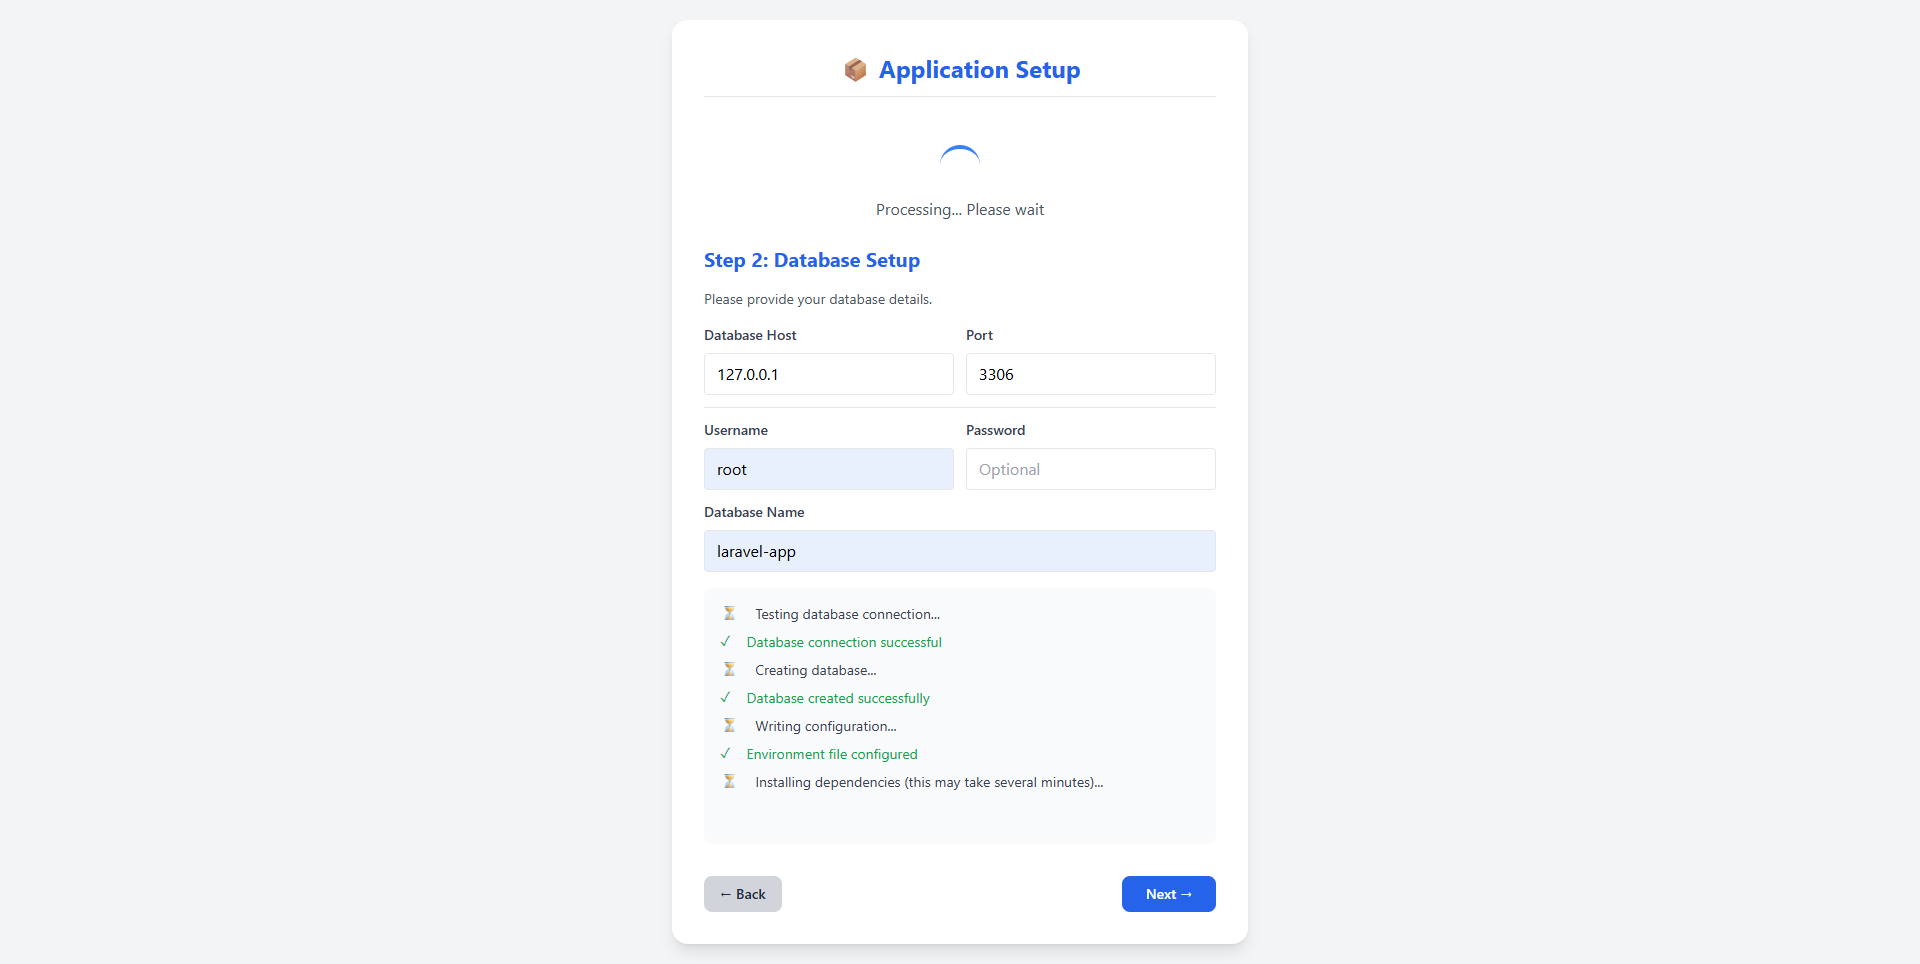
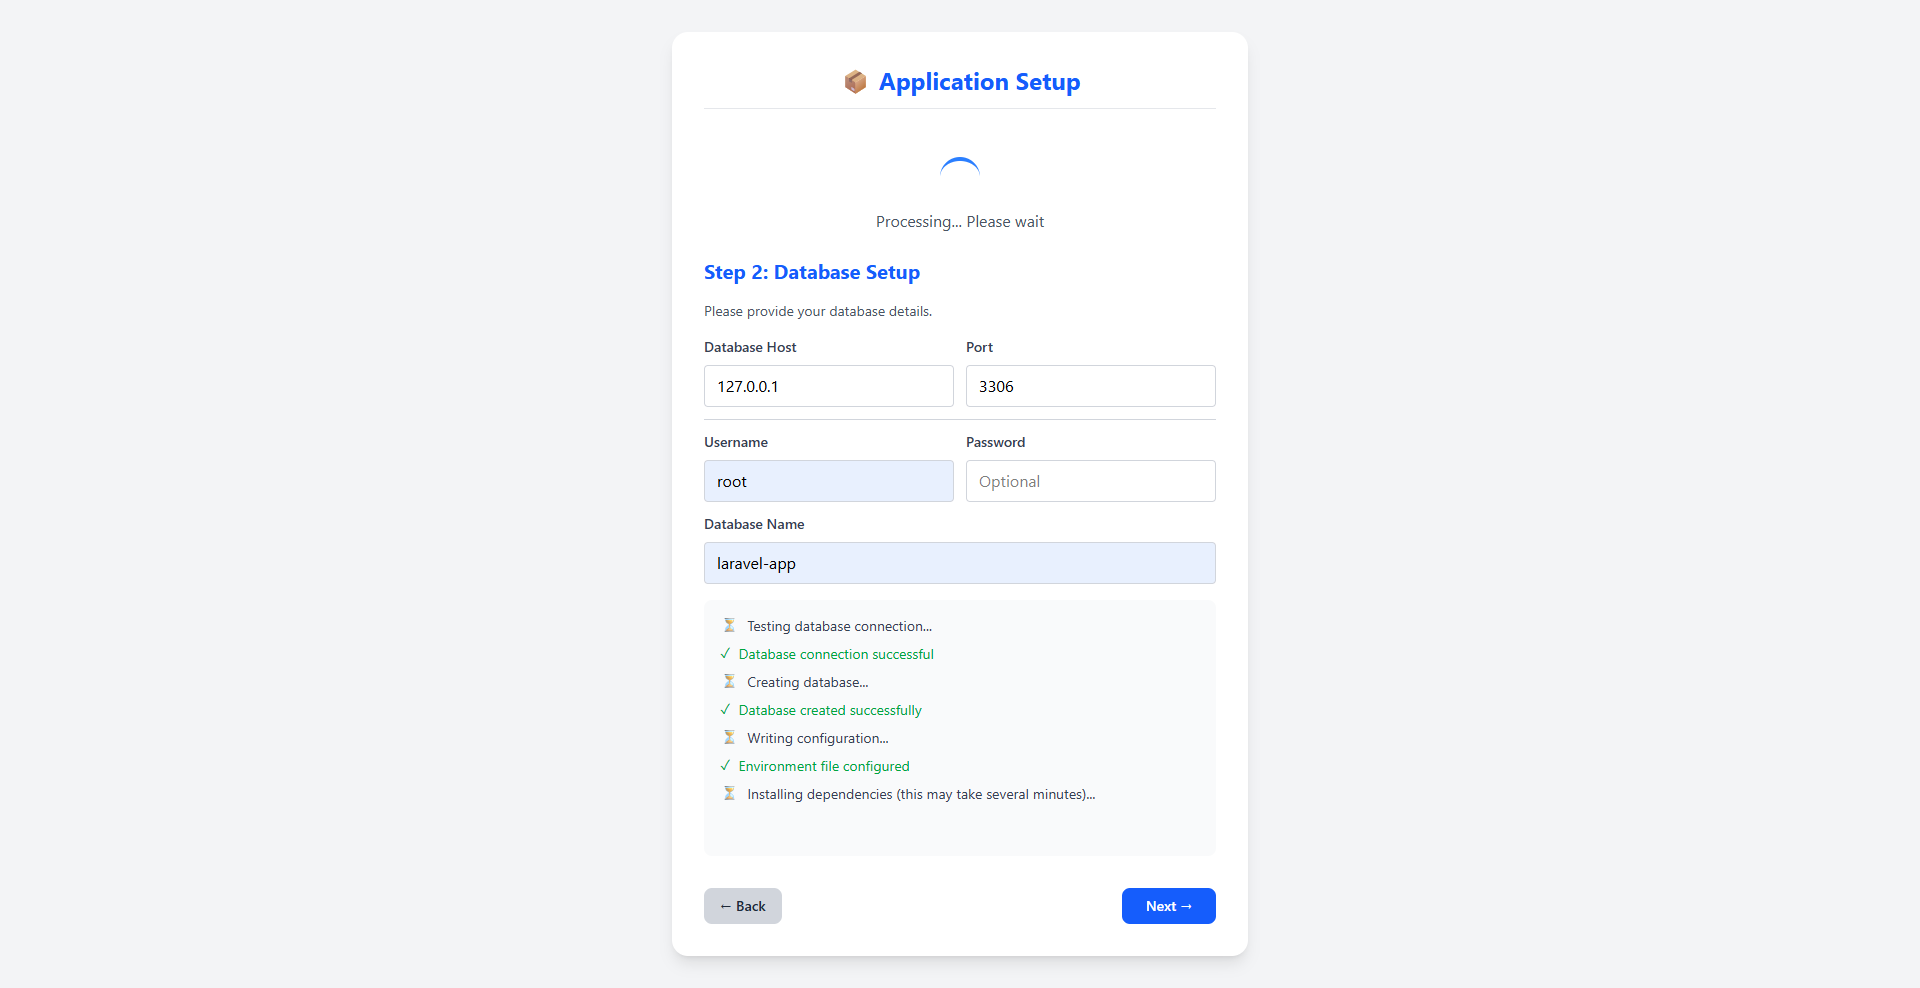
improve design

diff --git a/public/install-app.php b/public/install-app.php
@@ -420,7 +420,7 @@ if ($_SERVER['REQUEST_METHOD'] === 'GET' && isset($_GET['step'])) {
             'JSON' => extension_loaded('json'),
         ];
 
-        echo '<ul class="divide-y divide-gray-200 border rounded-lg overflow-hidden">';
+        echo '<ul class="divide-y divide-gray-200 border rounded-lg overflow-hidden border-gray-200">';
         foreach ($reqs as $name => $ok) {
             if (!$ok)
                 $allOk = false;
@@ -440,29 +440,29 @@ if ($_SERVER['REQUEST_METHOD'] === 'GET' && isset($_GET['step'])) {
             <h2 class="text-xl font-bold text-blue-600">Step 2: Database Setup</h2>
             <p class="text-gray-600 text-sm">Please provide your database details.</p>
             <form class="space-y-3">
-                <div class="grid grid-cols-2 gap-3 border-b pb-3">
+                <div class="grid grid-cols-2 gap-3 border-b border-gray-300 pb-3">
                     <div>
                         <label class="block text-sm font-medium text-gray-700 pb-2">Database Host</label>
-                        <input class="w-full border rounded px-3 py-2" type="text" name="db_host" value="127.0.0.1" required>
+                        <input class="w-full border rounded px-3 py-2 border-gray-300" type="text" name="db_host" value="127.0.0.1" required>
                     </div>
                     <div>
                         <label class="block text-sm font-medium text-gray-700 pb-2">Port</label>
-                        <input class="w-full border rounded px-3 py-2" type="text" name="db_port" value="3306" required>
+                        <input class="w-full border rounded px-3 py-2 border-gray-300" type="text" name="db_port" value="3306" required>
                     </div>
                 </div>
                 <div class="grid grid-cols-2 gap-3">
                     <div>
                         <label class="block text-sm font-medium text-gray-700 pb-2">Username</label>
-                        <input class="w-full border rounded px-3 py-2" type="text" name="db_user" required>
+                        <input class="w-full border rounded px-3 py-2 border-gray-300" type="text" name="db_user" required>
                     </div>
                     <div>
                         <label class="block text-sm font-medium text-gray-700 pb-2">Password</label>
-                        <input class="w-full border rounded px-3 py-2" type="password" name="db_pass" placeholder="Optional">
+                        <input class="w-full border rounded px-3 py-2 border-gray-300" type="password" name="db_pass" placeholder="Optional">
                     </div>
                 </div>
                 <div>
                     <label class="block text-sm font-medium text-gray-700 pb-2">Database Name</label>
-                    <input class="w-full border rounded px-3 py-2" type="text" name="db_name" required>
+                    <input class="w-full border rounded px-3 py-2 border-gray-300" type="text" name="db_name" required>
                 </div>
             </form>
         </div>';
@@ -500,13 +500,12 @@ if (isAppInstalled()) {
     <meta name="viewport" content="width=device-width, initial-scale=1.0" />
     <script src="https://cdn.jsdelivr.net/npm/@tailwindcss/browser@4"></script>
     <title>📦 Application Setup</title>
-    <script src="https://cdn.tailwindcss.com"></script>
 </head>
 
 <body class="bg-gray-100 flex items-center justify-center min-h-screen py-8">
 
     <div class="bg-white shadow-lg rounded-2xl p-8 w-full max-w-xl min-h-full" id="installer-container">
-        <h1 class="text-2xl font-bold text-center text-blue-600 mb-6 border-b pb-3">📦 Application Setup</h1>
+        <h1 class="text-2xl font-bold text-center text-blue-600 mb-6 border-b pb-3 border-gray-200">📦 Application Setup</h1>
 
         <div id="step-content" class="relative">
             <!-- Loading Spinner -->
